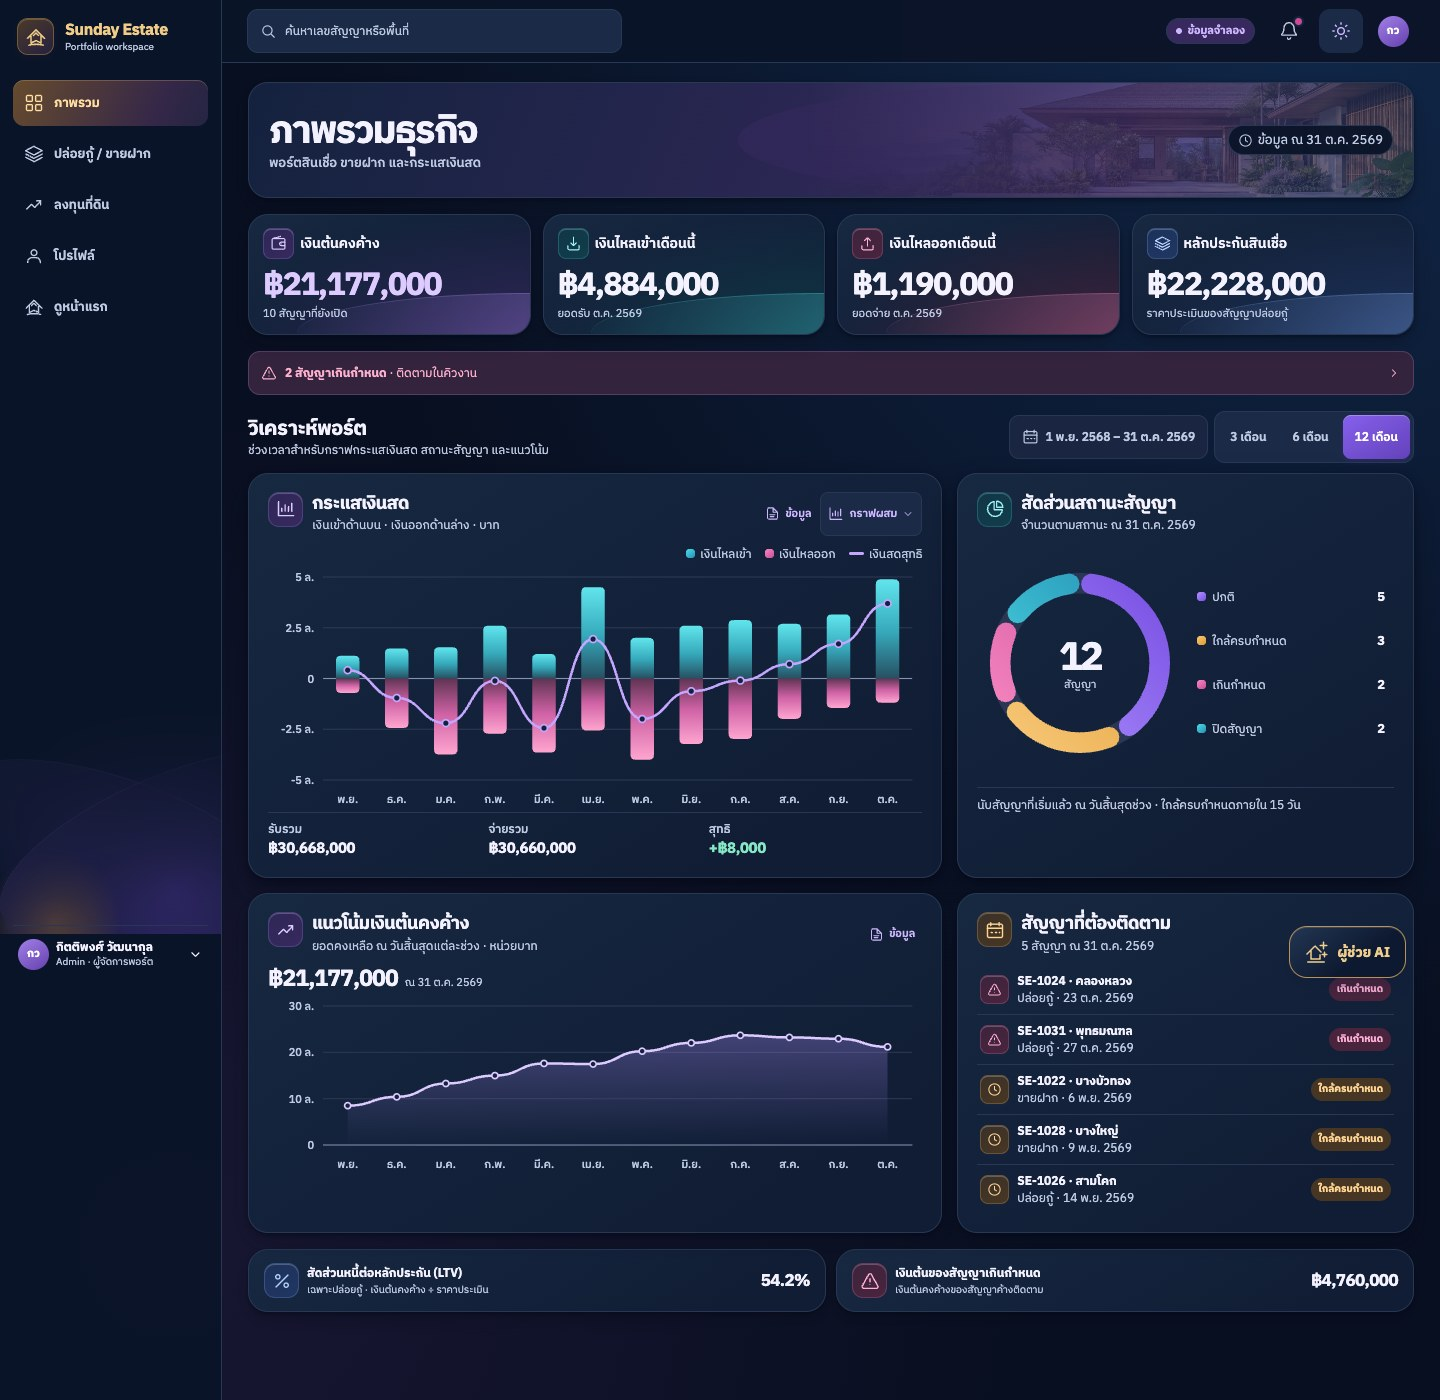
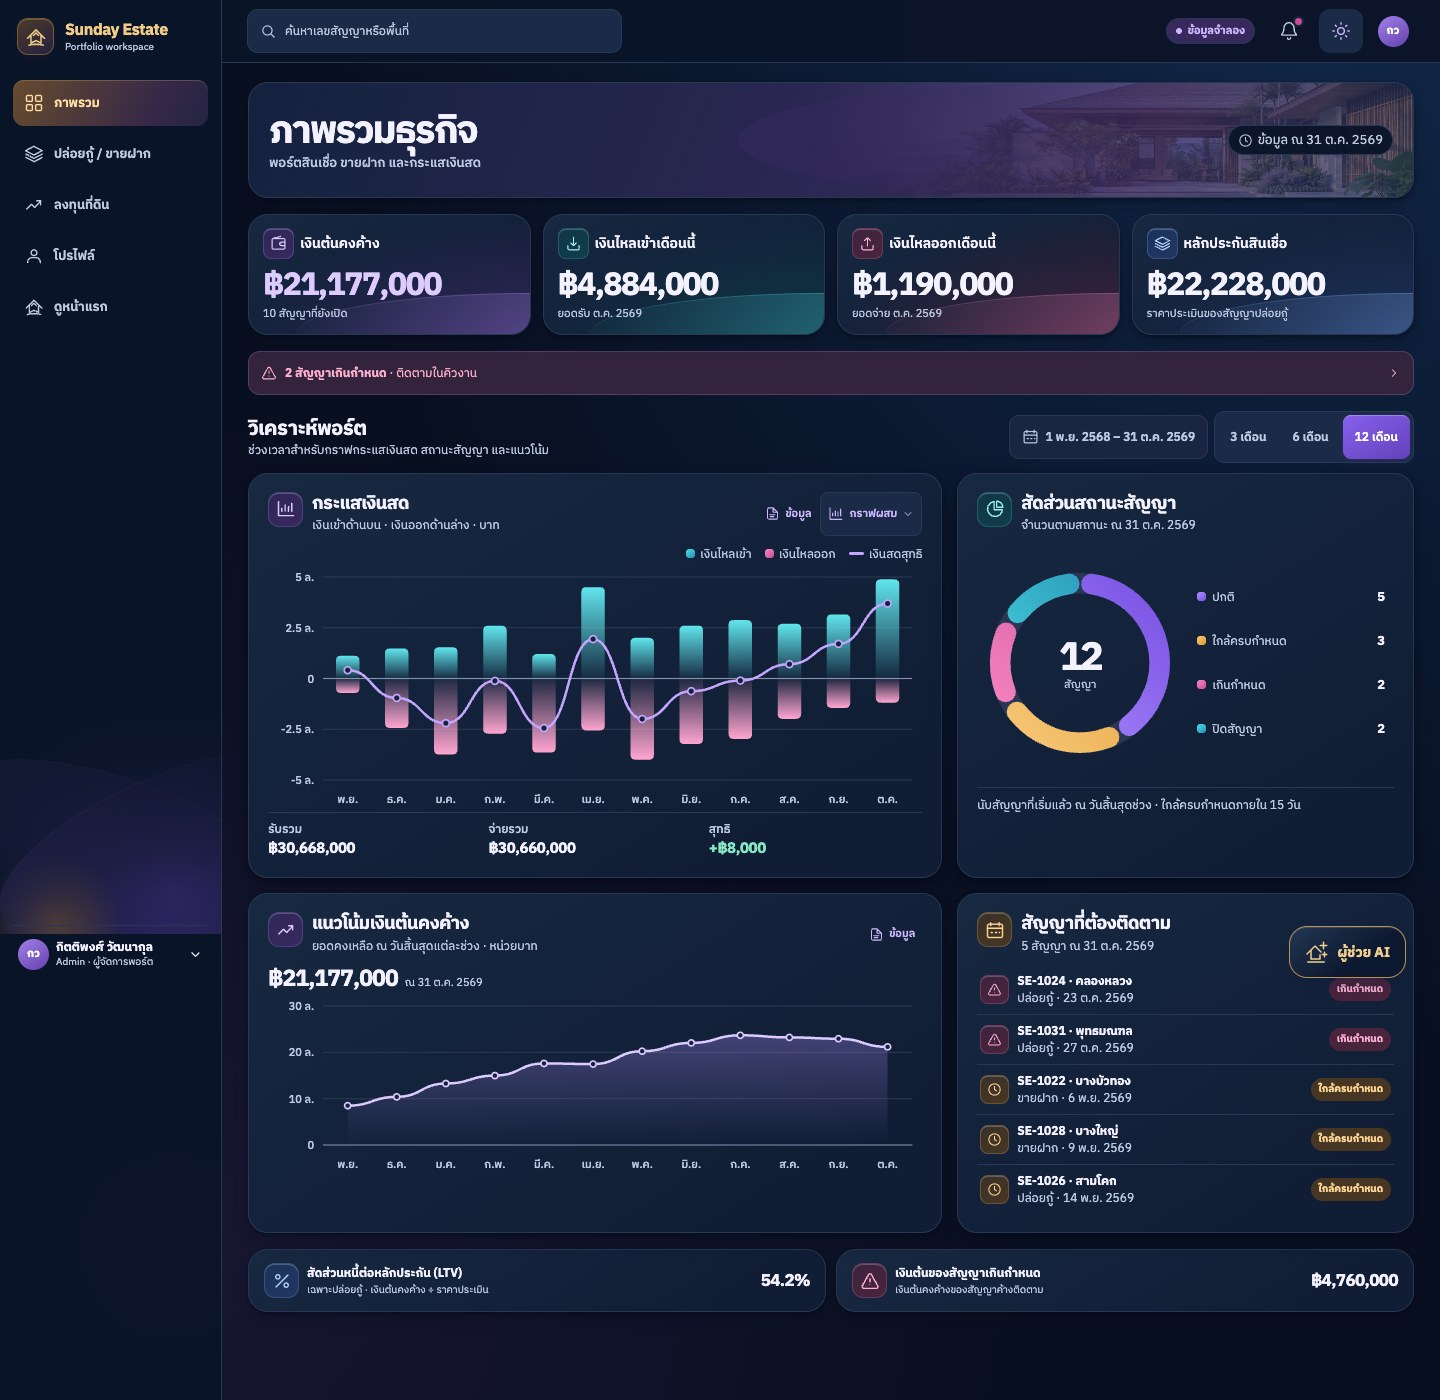
Fade cashflow bars from 95 percent transparency

Changed region(s): [[0.2188, 0.43, 0.625, 0.5529]]

diff --git a/preview/aurora-demo/v2/evidence/index.html b/preview/aurora-demo/v2/evidence/index.html
@@ -4,7 +4,7 @@
   <meta charset="utf-8">
   <meta name="viewport" content="width=device-width, initial-scale=1">
   <meta name="color-scheme" content="light dark">
-  <title>ภาพหน้าจอ Sunday Estate Aurora V2.4</title>
+  <title>ภาพหน้าจอ Sunday Estate Aurora V2.5</title>
   <style>
     body{max-width:1000px;margin:auto;padding:1.25rem;font:1rem/1.65 system-ui,sans-serif}
     h1{font-size:clamp(1.5rem,5vw,2.3rem)}
@@ -16,11 +16,11 @@
 </head>
 <body>
   <a href="../">กลับไปเดโม</a>
-  <h1>ภาพหน้าจอ Aurora V2.4</h1>
+  <h1>ภาพหน้าจอ Aurora V2.5</h1>
   <p>ภาพจากเดโม GitHub Pages ในเบราว์เซอร์ที่ความกว้าง 390 และ 1440 พิกเซล แตะภาพเพื่อเปิดขนาดเต็ม</p>
   <main>
-    <figure><a href="cashflow-mobile-light.jpg"><img src="cashflow-mobile-light.jpg" alt="กราฟกระแสเงินสดธีมสว่าง โคนสีอ่อนและปลายสีเข้ม"></a><figcaption>ไล่สีแท่งกระแสเงินสด · สว่าง</figcaption></figure>
-    <figure><a href="cashflow-mobile-dark.jpg"><img src="cashflow-mobile-dark.jpg" alt="กราฟกระแสเงินสดธีมมืด โคนสีลึกและปลายสีสว่าง"></a><figcaption>ไล่สีแท่งกระแสเงินสด · มืด</figcaption></figure>
+    <figure><a href="cashflow-mobile-light.jpg"><img src="cashflow-mobile-light.jpg" alt="กราฟกระแสเงินสดธีมสว่าง แท่งโปร่งแสงใกล้เส้นศูนย์และทึบที่ปลาย"></a><figcaption>ไล่สีแท่งกระแสเงินสด · สว่าง</figcaption></figure>
+    <figure><a href="cashflow-mobile-dark.jpg"><img src="cashflow-mobile-dark.jpg" alt="กราฟกระแสเงินสดธีมมืด แท่งโปร่งแสงใกล้เส้นศูนย์และทึบที่ปลาย"></a><figcaption>ไล่สีแท่งกระแสเงินสด · มืด</figcaption></figure>
     <figure><a href="hero-mobile-opening.jpg"><img src="hero-mobile-opening.jpg" alt="ฉากบ้านบนหน้าแรกมือถือ" loading="lazy"></a><figcaption>Hero · ฉากเปิดบนมือถือ</figcaption></figure>
     <figure><a href="hero-desktop-transition.jpg"><img src="hero-desktop-transition.jpg" alt="การ์ดฉากธุรกิจเลื่อนซ้อนฉากบ้าน" loading="lazy"></a><figcaption>Hero · ฉากซ้อนกันขณะเลื่อน</figcaption></figure>
     <figure><a href="hero-mobile-gallery.jpg"><img src="hero-mobile-gallery.jpg" alt="แกลเลอรีบนมือถือพร้อมปุ่มภาพก่อนหน้าและภาพถัดไป" loading="lazy"></a><figcaption>แกลเลอรี · มือถือ</figcaption></figure>

diff --git a/preview/aurora-demo/v2/charts.js b/preview/aurora-demo/v2/charts.js
@@ -2,6 +2,9 @@ window.EstateCharts = (() => {
   const d = window.EstateData;
   const label = {income: 'เงินไหลเข้า', expense: 'เงินไหลออก', net: 'เงินสดสุทธิ', balance: 'เงินต้นคงค้าง'};
   const tones = {income: 'cyan', expense: 'pink', net: 'purple', balance: 'purple'};
+  const barStops = Array.from({length:20}, (_,index) =>
+    '<stop offset="' + (index * 100 / 19).toFixed(3) + '%" stop-opacity="' + ((index + 1) * 5 / 100) + '"/>'
+  ).join('');
   const amount = (n, key) => (n < 0 ? '−' : key === 'net' && n > 0 ? '+' : '') + d.baht(Math.abs(n));
   const legendMark = (tone, line = false) => '<i class="swatch ' + tone + (line ? ' line' : '') + '" aria-hidden="true"></i>';
   const legend = (keys, mode) => '<div class="legend">' + keys.map(k => '<span>' + legendMark(tones[k], k === 'net' || k === 'balance' || mode === 'lines') + label[k] + '</span>').join('') + '</div>';
@@ -78,7 +81,7 @@ window.EstateCharts = (() => {
       const up = key === 'income';
       return '<linearGradient id="' + kind + '-' + key + '" class="cash-bar-gradient ' + tones[key] +
         '" x1="0" x2="0" y1="' + (up ? 1 : 0) + '" y2="' + (up ? 0 : 1) + '" gradientUnits="objectBoundingBox">' +
-        '<stop class="bar-base"/><stop offset="47%" class="bar-middle"/><stop offset="100%" class="bar-tip"/></linearGradient>';
+        barStops + '</linearGradient>';
     }).join('') : '';
     const grids = scale.ticks.map(t => '<line x1="' + left + '" x2="' + right + '" y1="' + y(t) + '" y2="' + y(t) + '" class="' + (t === 0 ? 'axis-zero' : 'axis-grid') + '"/><text class="axis-label" x="' + (left - 9) + '" y="' + (y(t) + 4) + '" text-anchor="end">' + tickText(t) + '</text>').join('');
     const axisLabels = rows.map((row, i) => i % labelFreq === 0 || (i === rows.length - 1 && rows.length % labelFreq === 0 && cell > 39)

diff --git a/preview/aurora-demo/v2/styles.css b/preview/aurora-demo/v2/styles.css
@@ -204,13 +204,10 @@ img{display:block;width:100%;height:100%;object-fit:cover}
 .gradient-cyan.start{stop-color:var(--cyan-hi)}.gradient-cyan.end{stop-color:var(--cyan-lo)}
 .gradient-blue.start{stop-color:var(--blue-hi)}.gradient-blue.end{stop-color:var(--blue-lo)}
 .gradient-amber.start{stop-color:var(--amber-hi)}.gradient-amber.end{stop-color:var(--amber-lo)}
-.cash-bar-gradient.cyan{--bar-base:#d6f4f5;--bar-middle:#64d5dd;--bar-tip:#098c9d}
-.cash-bar-gradient.pink{--bar-base:#f9ddeb;--bar-middle:#ee92c2;--bar-tip:#bf3d88}
-[data-theme="dark"] .cash-bar-gradient.cyan{--bar-base:#265062;--bar-middle:#36a9bb;--bar-tip:#61e5ed}
-[data-theme="dark"] .cash-bar-gradient.pink{--bar-base:#603453;--bar-middle:#cf62a5;--bar-tip:#ffa5d0}
-.cash-bar-gradient .bar-base{stop-color:var(--bar-base)}
-.cash-bar-gradient .bar-middle{stop-color:var(--bar-middle)}
-.cash-bar-gradient .bar-tip{stop-color:var(--bar-tip)}
+.cash-bar-gradient.cyan stop{stop-color:#098c9d}
+.cash-bar-gradient.pink stop{stop-color:#bf3d88}
+[data-theme="dark"] .cash-bar-gradient.cyan stop{stop-color:#61e5ed}
+[data-theme="dark"] .cash-bar-gradient.pink stop{stop-color:#ffa5d0}
 .area-start{stop-color:var(--purple-hi);stop-opacity:.3}.area-end{stop-color:var(--purple-hi);stop-opacity:0}
 .chart-stroke{stroke:var(--tone-ink);fill:none;stroke-width:2.5;stroke-linejoin:round}
 .chart-point{stroke:var(--tone-ink);fill:var(--paper);stroke-width:1.7}

diff --git a/preview/aurora-demo/v2/index.html b/preview/aurora-demo/v2/index.html
@@ -6,9 +6,9 @@
   <meta name="description" content="Sunday Estate — ต้นแบบพื้นที่วิเคราะห์พอร์ตและสัญญาด้วยข้อมูลจำลอง">
   <title>Sunday Estate — พื้นที่วิเคราะห์</title>
   <link rel="icon" type="image/png" href="assets/icon.png">
-  <link rel="stylesheet" href="styles.css?v=2.4">
+  <link rel="stylesheet" href="styles.css?v=2.5">
   <script defer src="data.js"></script>
-  <script defer src="charts.js?v=2.4"></script>
+  <script defer src="charts.js?v=2.5"></script>
   <link rel="stylesheet" href="experience.css?v=2.4">
   <script defer src="scenes.js?v=2.4"></script>
   <script defer src="investment.js?v=2.2"></script>
